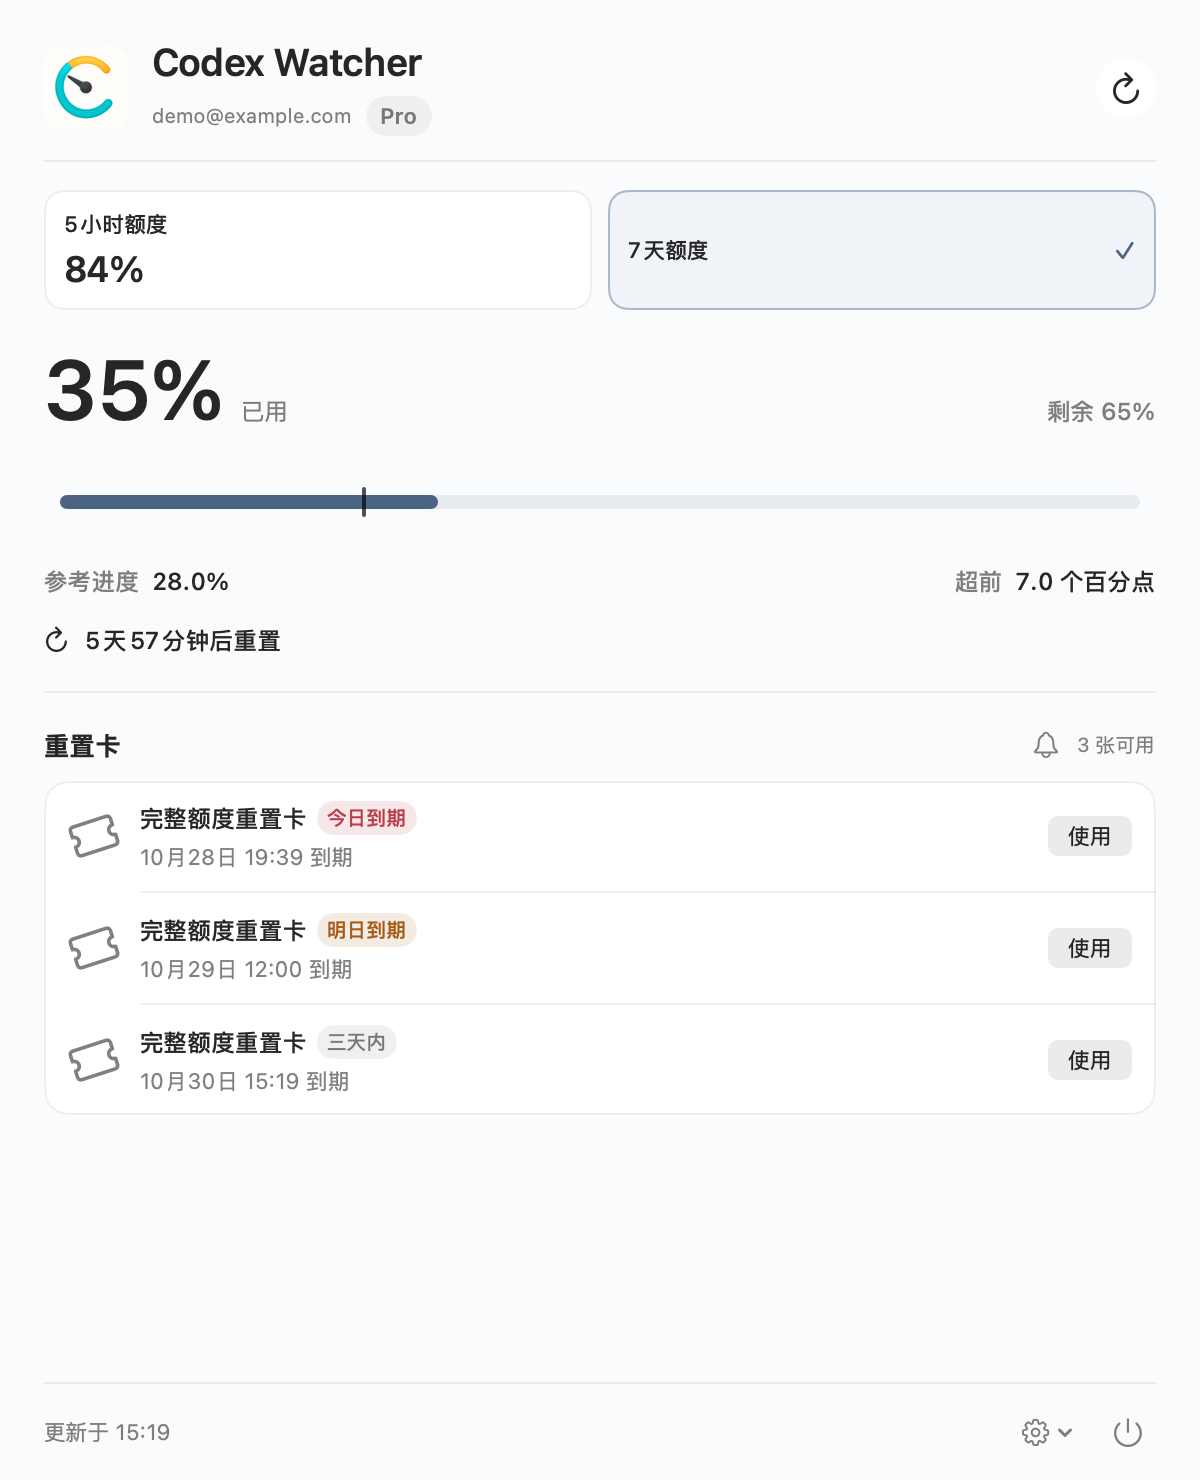
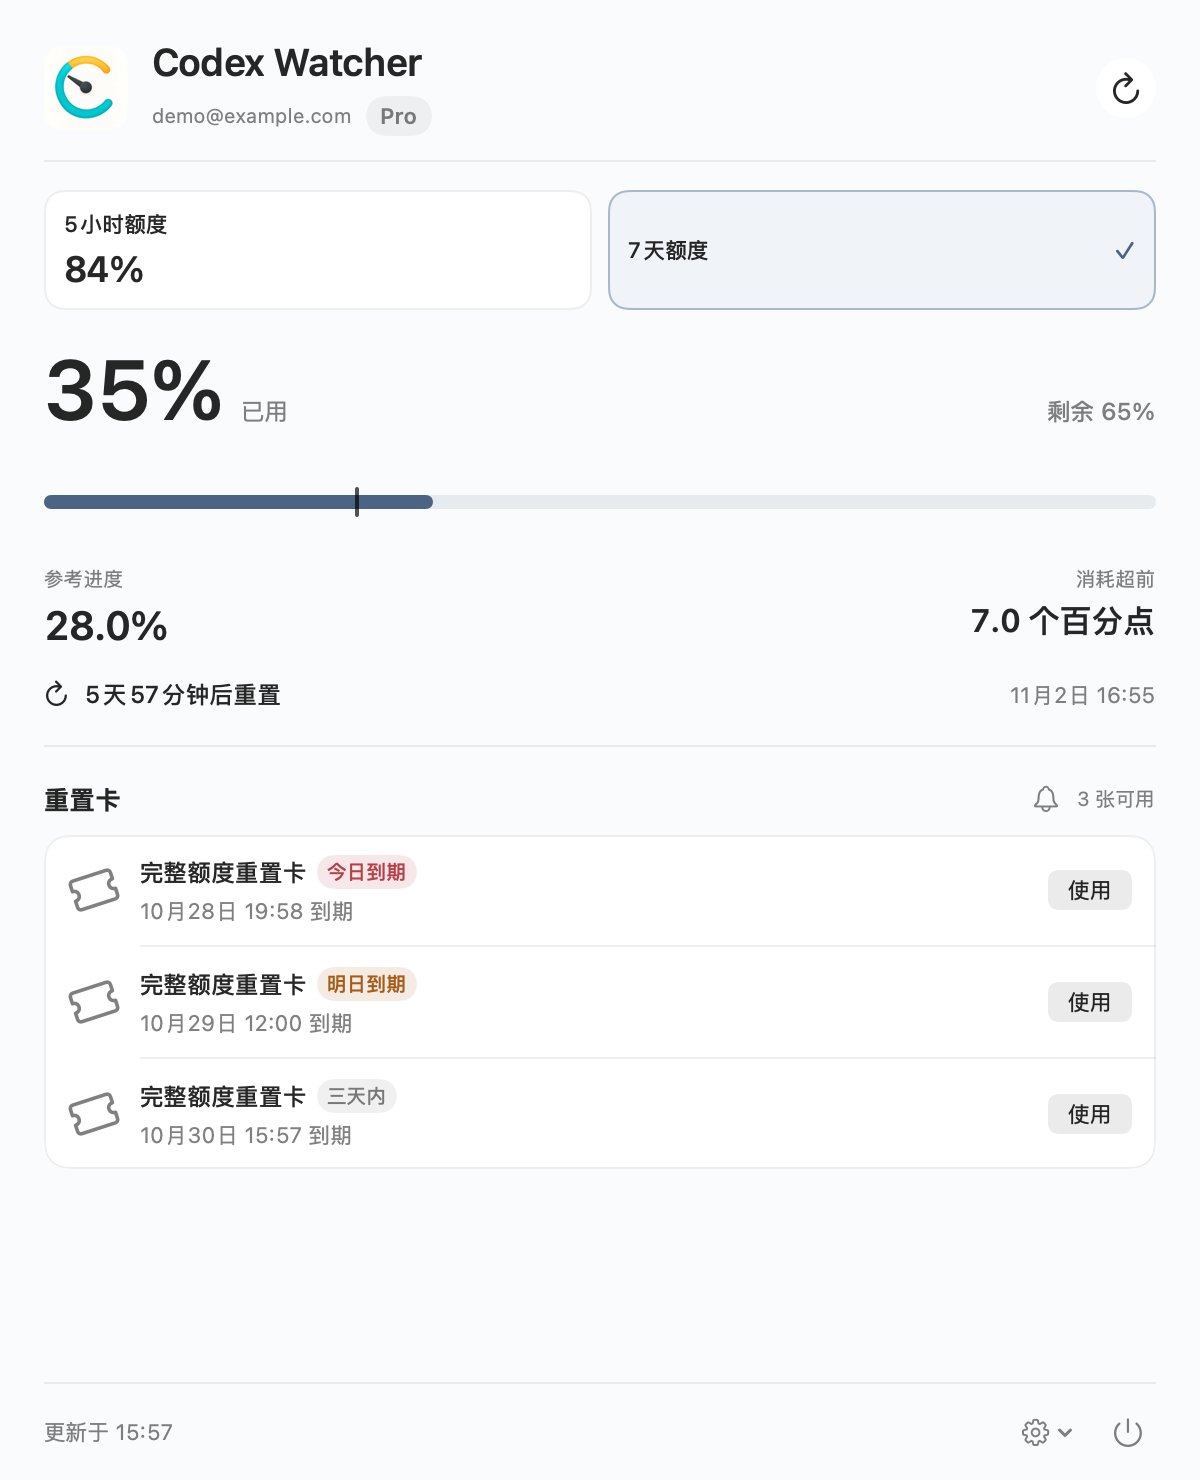
fix: restore full-width quota track and detail layout

diff --git a/CodexWatcher/ContentView.swift b/CodexWatcher/ContentView.swift
@@ -16,11 +16,12 @@ struct ContentView: View {
     var flexibleSize = false
     var maximumHeight: CGFloat = 660
     var initiallyShowingTrend = false
+    var initiallyHoveringProgress = false
     private let presentationID = UUID()
     @AppStorage("appearance") private var appearance = AppAppearance.system.rawValue
 
     var body: some View {
-        DashboardContent(monitor: monitor, updates: updates, dismissForUpdate: dismissForUpdate, appearance: $appearance, handlesExpiryReminders: handlesExpiryReminders, openDashboard: openDashboard, presentSettings: presentSettings, presentReset: presentReset, flexibleSize: flexibleSize, maximumHeight: maximumHeight, presentationID: presentationID, showingUsageTrend: initiallyShowingTrend)
+        DashboardContent(monitor: monitor, updates: updates, dismissForUpdate: dismissForUpdate, appearance: $appearance, handlesExpiryReminders: handlesExpiryReminders, openDashboard: openDashboard, presentSettings: presentSettings, presentReset: presentReset, flexibleSize: flexibleSize, maximumHeight: maximumHeight, presentationID: presentationID, showingUsageTrend: initiallyShowingTrend, hoveringProgress: initiallyHoveringProgress)
             .onAppear { applyAppearance() }
             .onChange(of: appearance) { _, _ in applyAppearance() }
     }
@@ -47,7 +48,7 @@ private struct DashboardContent: View {
     let maximumHeight: CGFloat
     let presentationID: UUID
     @State var showingUsageTrend = false
-    @State private var hoveringProgress = false
+    @State var hoveringProgress = false
     @State private var hoveringReturnProgress = false
     @Environment(\.accessibilityReduceMotion) private var reduceMotion
     @FocusState private var usageControlFocused: Bool
@@ -370,23 +371,24 @@ private struct DashboardContent: View {
                 .accessibilityLabel("查看额度趋势")
                 .accessibilityValue("已用 \(format.percent(window.quota.usedPercent))；参考进度 \(standard.map { format.percent($0) } ?? "未知")；较参考进度 \(deviation.map { format.deviation($0) } ?? "待更新")")
                 .accessibilityHint("切换到剩余额度趋势面板")
-                HStack(alignment: .firstTextBaseline) {
-                    HStack(alignment: .firstTextBaseline, spacing: 6) {
-                        Text("参考进度").foregroundStyle(.secondary)
+                // Expand the hit area outward; keep the track aligned with the content edges.
+                .padding(.horizontal, -8)
+                HStack(alignment: .top) {
+                    VStack(alignment: .leading, spacing: 5) {
+                        Text("参考进度").font(.caption).foregroundStyle(.secondary)
+                            .help("按额度周期的自然时间计算，包含睡眠和休息时间。")
                         Text(standard.map { format.percent($0, decimals: 1) } ?? "—")
-                            .monospacedDigit()
+                            .font(.system(size: 20, weight: .semibold)).monospacedDigit()
                     }
-                    .help("按额度周期的自然时间计算，包含睡眠和休息时间。")
-                    Spacer(minLength: 8)
-                    HStack(alignment: .firstTextBaseline, spacing: 6) {
-                        Text(deviation.map { $0 >= 0 ? "超前" : "滞后" } ?? "较参考进度")
-                            .foregroundStyle(.secondary)
+                    Spacer()
+                    VStack(alignment: .trailing, spacing: 5) {
+                        Text(deviation.map { $0 >= 0 ? "消耗超前" : "消耗滞后" } ?? "较参考进度")
+                            .font(.caption).foregroundStyle(.secondary)
                         Text(deviation.map { format.deviation(abs($0), signed: false) } ?? "待更新")
-                            .monospacedDigit()
+                            .font(.system(size: 16, weight: .semibold)).monospacedDigit()
                             .foregroundStyle(palette.deviationColor(deviation))
                     }
                 }
-                .font(.system(size: 12, weight: .medium))
                 .help("实际用量减去参考进度，单位为百分点。")
             }
             if let reset = window.quota.resetDate {
@@ -395,6 +397,7 @@ private struct DashboardContent: View {
                           systemImage: "arrow.clockwise")
                         .font(.system(size: 12, weight: .medium))
                     Spacer(minLength: 8)
+                    Text(format.compactDate(reset)).font(.system(size: 11)).foregroundStyle(.secondary)
                 }.help(format.date(reset, precise: true))
             }
             if stale && monitor.errorMessage == nil {

diff --git a/scripts/DocumentationPreview.swift b/scripts/DocumentationPreview.swift
@@ -89,6 +89,12 @@ struct DocumentationPreview {
                              to: output.appendingPathComponent(dark ? "dashboard-dark.png" : "dashboard-light.png"))
         }
         for dark in [false, true] {
+            defaults.set(dark ? "dark" : "light", forKey: "appearance")
+            try await render(ContentView(monitor: monitor, initiallyHoveringProgress: true).defaultAppStorage(defaults),
+                size: NSSize(width: 390, height: 660), dark: dark,
+                to: output.appendingPathComponent(dark ? "dashboard-progress-hover-dark.png" : "dashboard-progress-hover-light.png"))
+        }
+        for dark in [false, true] {
             try await render(UsageTrendView(samples: monitor.trendHistory["codex.primary"] ?? [],
                 quota: shortQuota, date: Date(), stale: false, storageFailed: false).padding(16),
                 size: NSSize(width: 390, height: 330), dark: dark,

diff --git a/CHANGELOG.md b/CHANGELOG.md
@@ -6,9 +6,9 @@
 
 - 修复短间隔刷新且额度发生变化时预测退回采样状态的问题；按固定时间片合并最新读数，补充高频刷新回归及真实面板的鼠标切换、返回、重开和空格键操作检查。
 
-- 精简趋势面板的重复说明，合并标题与返回入口，拆分耗尽预测及提前重置的时间差；采样条件和计算口径移至悬停帮助，重置日期按需悬停查看；参考进度与消耗偏移合为一行，选中窗口不重复显示用量百分比。
+- 精简趋势面板的重复说明，合并标题与返回入口，拆分耗尽预测及提前重置的时间差；采样条件和计算口径移至悬停帮助，保留原有参考进度、消耗偏移的双列层级与重置日期，选中窗口不重复显示用量百分比。
 
-- 额度进度区域支持点击原位切换至趋势面板，入口不额外显示图标，悬停时高亮整行矩形热区；鼠标切换不残留焦点高亮，键盘操作使用柔和细描边并保留返回入口；默认显示紧凑进度视图，重新打开面板时恢复默认。
+- 额度进度区域支持点击原位切换至趋势面板，入口不额外显示图标，进度轴保留原有全宽对齐，悬停热区向轴外侧延伸；鼠标切换不残留焦点高亮，键盘操作使用柔和细描边并保留返回入口；默认显示紧凑进度视图，重新打开面板时恢复默认。
 
 - 新增剩余额度趋势图：按账号和额度窗口保存本地采样，以实线显示历史、虚线预测近期消耗走势，并与重置时间比较；支持预计耗尽提示和基于已观测速度的走势范围，样本不足、离线或重置后重新采样。
 

diff --git a/docs/images/README.md b/docs/images/README.md
@@ -8,6 +8,8 @@
 | --- | --- |
 | [dashboard-light.png](dashboard-light.png) | 亮色面板 |
 | [dashboard-dark.png](dashboard-dark.png) | 暗色面板 |
+| [dashboard-progress-hover-light.png](dashboard-progress-hover-light.png) | 全宽进度轴与向外延伸的悬停热区（亮色） |
+| [dashboard-progress-hover-dark.png](dashboard-progress-hover-dark.png) | 全宽进度轴与悬停热区（暗色） |
 | [dashboard-trend-full-light.png](dashboard-trend-full-light.png) | 点击进度区域切换后的趋势视图与重置卡（亮色，拉高窗口展示） |
 | [dashboard-trend-full-dark.png](dashboard-trend-full-dark.png) | 切换后的趋势视图（暗色，拉高窗口展示） |
 | [usage-trend-light.png](usage-trend-light.png) | 剩余额度历史、走势范围与预测耗尽时间（亮色） |
